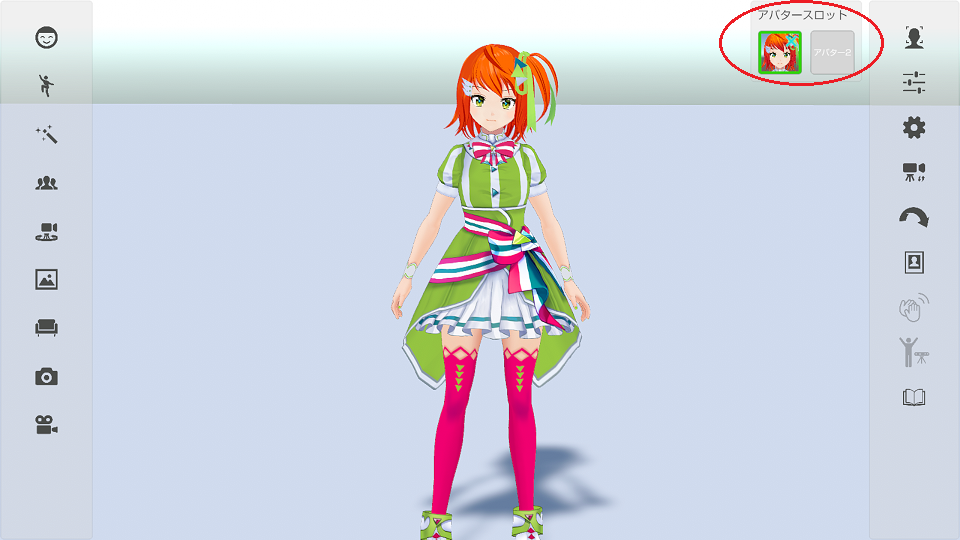
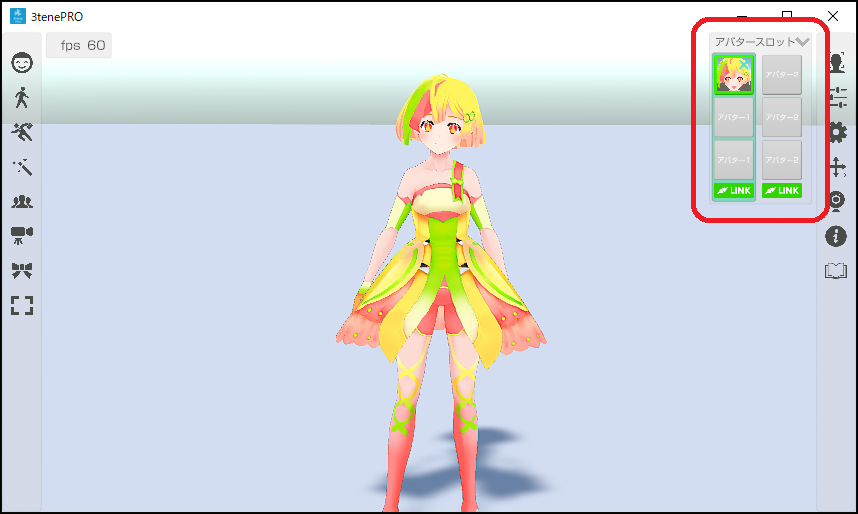
メニューの使い方を更新。

diff --git a/AboutMenu.md b/AboutMenu.md
@@ -2,15 +2,15 @@
 
 ### メニューアイコンの説明
 
-![画像](image/menu_detile.png "左右メニュー")
+><font color="Blue">※3teneFREE では搭載されていない機能のアイコンは表示されません。</font>
 
-><font color="Blue">※フリー版にはNuitrackのプレビューのアイコンはありません。</font>
-><font color="Blue">※Mac にはLeapMotion、動画保存のアイコンはありません。</font>
+![画像](image/menu_detile.png "左右メニュー")
 
 ### アバタースロット
 
 >複数人に対応している 3tene ではアバタースロットで指定した
 >アバターが各種操作の対象になります。
+><font color="Blue">※3teneFREE は対応していません。</font>
 
 ![画像](image/menu_avatar_slot.png "アバタースロット")
 
